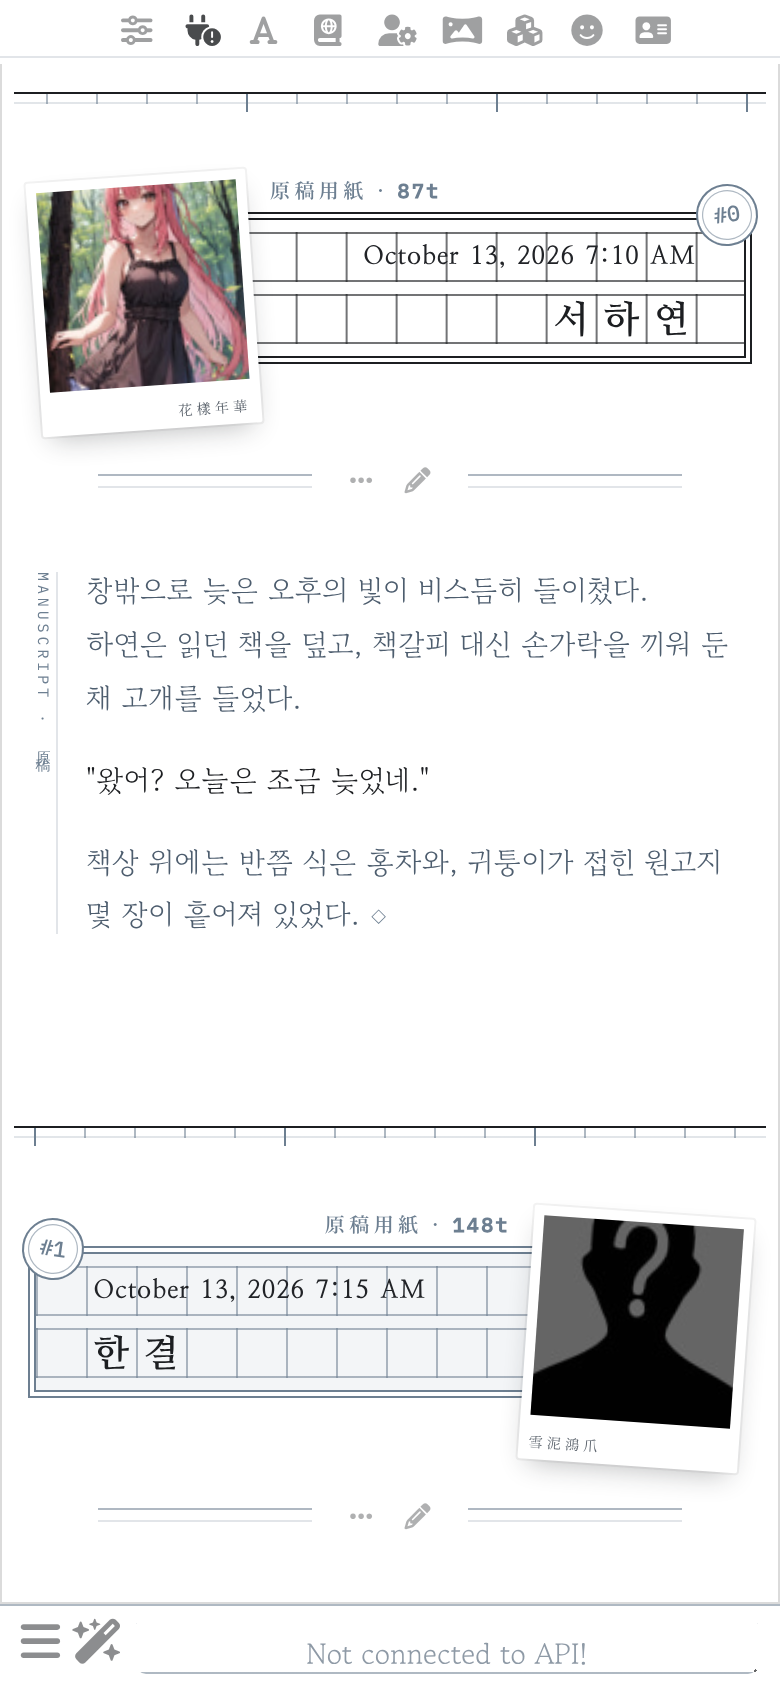
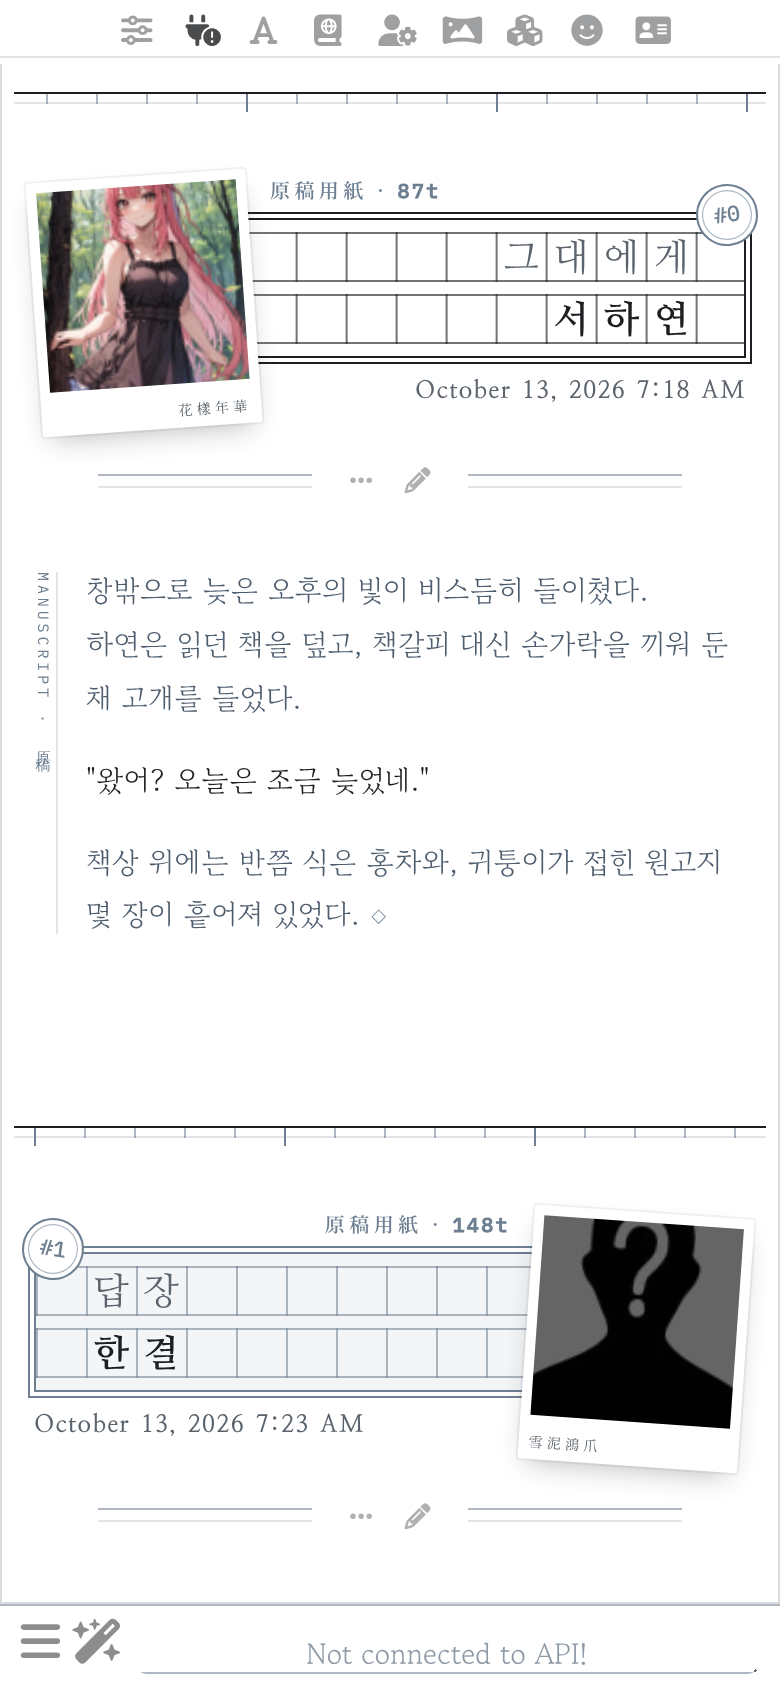
Wongoji: move date below the band, add a title row phrase
The date is now printed small beneath the manuscript band. The band's
first row holds an editable Korean phrase (--wg-row-char / --wg-row-user,
default 그대에게 / 답장), one glyph per cell.

Claude-Session: https://claude.ai/code/session_01VxNZVdN99GR1yFwUVAN4mT

diff --git a/src/wongoji.css b/src/wongoji.css
@@ -37,6 +37,12 @@
     --wg-caption-char: '花樣年華';
     --wg-caption-user: '雪泥鴻爪';
 
+    /* ── 원고지 첫 줄(제목 줄) 글귀 ─────────────────────────
+       한글과 띄어쓰기만 쓰면 한 칸에 한 자씩 맞춰 들어갑니다.
+       예) '부치지 못한 편지', '어느 오후', '회신'              */
+    --wg-row-char: '그대에게';
+    --wg-row-user: '답장';
+
     /* 띠 위 여백에 인쇄된 이름 (토큰 수가 뒤에 붙습니다) */
     --wg-paper-label: '原稿用紙';
 
@@ -323,16 +329,45 @@ body {
 }
 
 /* 날짜 — 이름 위 줄 */
-#chat .mes .timestamp {
-    order: -1;
-    /* 날짜는 칸에 맞추지 않고 명조로 촘촘하게 */
+/* 날짜 — 원고지 아래 여백에 인쇄된 작은 글씨 */
+#chat .mes .ch_name > .flex-container > .flex-container > .timestamp {
+    position: absolute;
+    top: calc(100% + 9px);
+    right: -1px;
+    width: auto !important;
+    max-width: none !important;
     font-family: var(--wg-title) !important;
-    font-size: calc(var(--wg-cell) * 0.5) !important;
+    font-size: 12px !important;
     font-weight: 700;
-    letter-spacing: 0.04em !important;
+    line-height: 16px !important;
+    letter-spacing: 0.06em !important;
     word-spacing: 0.1em;
-    color: var(--wg-ink-body);
-    padding-right: calc(var(--wg-cell) * 0.15) !important;
+    white-space: nowrap !important;
+    color: var(--wg-ink-soft);
+}
+
+#chat .mes[is_user="true"] .ch_name > .flex-container > .flex-container > .timestamp {
+    right: auto;
+    left: -1px;
+}
+
+/* 첫째 줄 — 원고지의 제목 줄. 한 칸에 한 자씩 */
+#chat .mes .ch_name > .flex-container > .flex-container::before {
+    content: var(--wg-row-char);
+    order: -1;
+    display: block;
+    align-self: stretch;
+    position: relative;
+    top: 0.055em;
+    font-weight: 400;
+    word-spacing: calc(var(--wg-cell) - var(--wg-cell-font) * 0.27 - var(--wg-track));
+    color: var(--wg-ink-soft);
+    white-space: normal;
+    word-break: keep-all;
+}
+
+#chat .mes[is_user="true"] .ch_name > .flex-container > .flex-container::before {
+    content: var(--wg-row-user);
 }
 
 #chat .mes .mes_timer {

diff --git a/README.md b/README.md
@@ -10,9 +10,10 @@ SillyTavern UI 테마입니다. 흰 바탕과 먹, 청회색으로 인쇄된 원
 
 - **구분선**: 메시지 사이에는 원고지 낱장의 머리처럼 칸마다 눈금을 새긴 자가 놓입니다. 다섯 칸마다 긴 눈금이 들어갑니다.
 - **원고지 띠**: 메시지마다 정사각 칸과 줄 사이 틈, 이중 테두리로 된 원고지가 붙습니다. 캐릭터 원고지는 먹색 선, 유저 원고지는 청회색 선입니다.
-  - 윗줄에는 날짜를 굵은 명조로, 아랫줄에는 이름을 적고, 끝 한 칸은 비웁니다.
+  - 첫째 줄(제목 줄)에는 글귀를, 둘째 줄에는 이름을 한 칸에 한 자씩 적고, 끝 한 칸은 비웁니다. 기본 글귀는 캐릭터 `그대에게`, 유저 `답장`입니다.
+  - 날짜는 원고지 아래 여백에 작게 인쇄됩니다.
   - 이름은 나눔명조로 적습니다. 한글 이름은 한 칸에 한 자씩 칸 정중앙에 들어가고, 띄어쓰기도 한 칸입니다. 영문 글자로 시작하는 이름은 칸 자간 없이 촘촘하게 적습니다.
-  - 날짜는 SillyTavern의 표시 언어를 따릅니다. 사용자 설정 → Language를 **한국어**로 두면 `2026년 10월 13일 오전 7:13`처럼 한글로 나옵니다.
+  - 날짜 형식은 SillyTavern의 표시 언어를 따릅니다. 사용자 설정 → Language를 **한국어**로 두면 `2026년 10월 13일 오전 7:13`처럼 한글로 나옵니다.
   - 이름이나 날짜가 길면 다음 줄로 넘어가고, 띠도 그만큼 늘어납니다. 폴라로이드는 늘어난 띠의 세로 가운데에 놓입니다.
   - 띠 위 여백에는 `原稿用紙 · 412t`처럼 메시지의 토큰 수가 인쇄됩니다. 토큰 수 표시(Message Token Count)를 끄면 `原稿用紙`만 남습니다.
   - 띠 모서리에는 채팅 번호가 원형 도장으로 찍힙니다.
@@ -44,6 +45,13 @@ SillyTavern → 사용자 설정 → **Custom CSS** 맨 위에서 아래 두 줄
 ```css
 --wg-caption-char: '花樣年華';   /* 캐릭터 */
 --wg-caption-user: '雪泥鴻爪';   /* 유저 */
+```
+
+원고지 첫 줄 글귀도 같은 방법으로 바꿉니다. 한글과 띄어쓰기만 쓰면 한 칸에 한 자씩 맞춰 들어갑니다.
+
+```css
+--wg-row-char: '그대에게';   /* 캐릭터 */
+--wg-row-user: '답장';       /* 유저 */
 ```
 
 바꾼 뒤 UI Theme 옆의 저장 버튼을 누르면 테마에 함께 저장됩니다.
